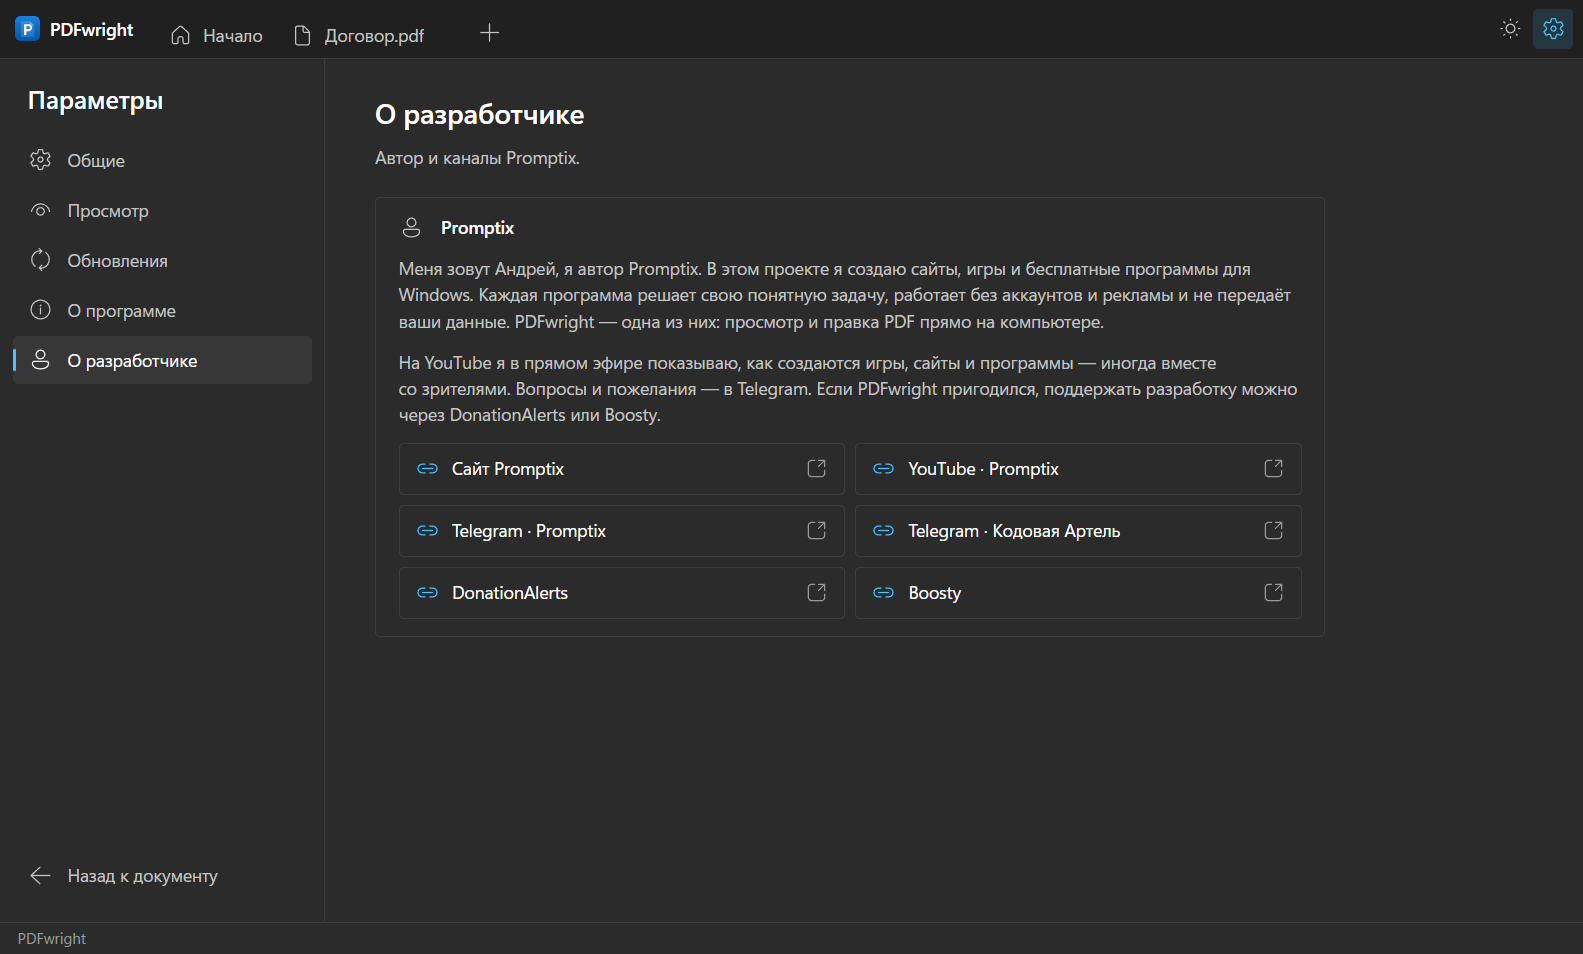
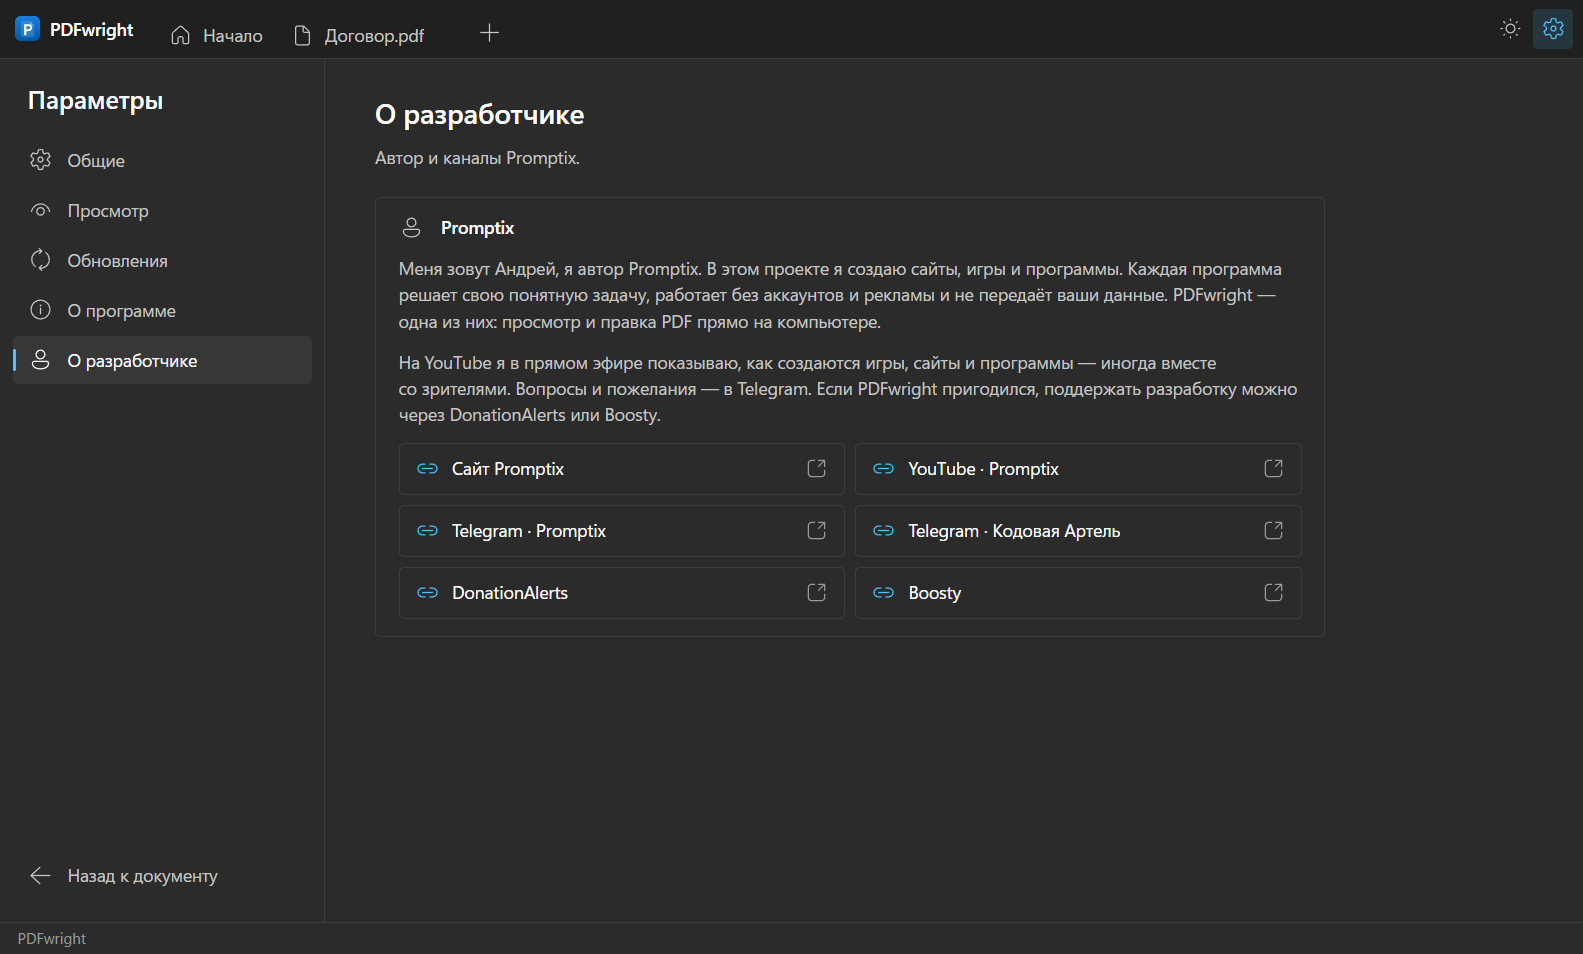
«О разработчике»: «сайты, игры и программы» для всех систем
Решение автора 2026-10-29 (план, правило 1): без уточнения «бесплатные …
для Windows», в обеих версиях. en — «websites, games and apps». Это
единственное изменение, видимое в Windows; снимок 23-author.png обновлён.

Changed region(s): [[0.2476, 0.2736, 0.8048, 0.3648]]

diff --git a/src/renderer/src/i18n/ru.ts b/src/renderer/src/i18n/ru.ts
@@ -700,7 +700,7 @@ export const ru = {
     author: 'О разработчике',
     authorLead: 'Автор и\u00a0каналы Promptix.',
     authorText:
-      'Меня зовут Андрей, я\u00a0автор Promptix. В\u00a0этом проекте я\u00a0создаю сайты, игры и\u00a0бесплатные программы для Windows. Каждая программа решает свою понятную задачу, работает без аккаунтов и\u00a0рекламы и\u00a0не\u00a0передаёт ваши данные. PDFwright\u00a0— одна из\u00a0них: просмотр и\u00a0правка PDF прямо на\u00a0компьютере.',
+      'Меня зовут Андрей, я\u00a0автор Promptix. В\u00a0этом проекте я\u00a0создаю сайты, игры и\u00a0программы. Каждая программа решает свою понятную задачу, работает без аккаунтов и\u00a0рекламы и\u00a0не\u00a0передаёт ваши данные. PDFwright\u00a0— одна из\u00a0них: просмотр и\u00a0правка PDF прямо на\u00a0компьютере.',
     authorText2:
       'На\u00a0YouTube я\u00a0в\u00a0прямом эфире показываю, как создаются игры, сайты и\u00a0программы\u00a0— иногда вместе со\u00a0зрителями. Вопросы и\u00a0пожелания\u00a0— в\u00a0Telegram. Если PDFwright пригодился, поддержать разработку можно через DonationAlerts или Boosty.',
     on: 'Вкл.',

diff --git a/src/renderer/src/i18n/en.ts b/src/renderer/src/i18n/en.ts
@@ -685,7 +685,7 @@ export const en: Strings = {
     author: 'About the developer',
     authorLead: 'The author and the Promptix channels.',
     authorText:
-      'My name is Andrey, and I am the author of Promptix. In this project I build websites, games and free apps for Windows. Each app solves a clear task of its own, works without accounts or ads, and does not send your data anywhere. PDFwright is one of them: viewing and editing PDFs right on your computer.',
+      'My name is Andrey, and I am the author of Promptix. In this project I build websites, games and apps. Each app solves a clear task of its own, works without accounts or ads, and does not send your data anywhere. PDFwright is one of them: viewing and editing PDFs right on your computer.',
     authorText2:
       'On YouTube I stream live as I build games, websites and apps, sometimes together with viewers. Questions and suggestions go to Telegram. If PDFwright has been useful to you, you can support its development through DonationAlerts or Boosty.',
     on: 'On',
